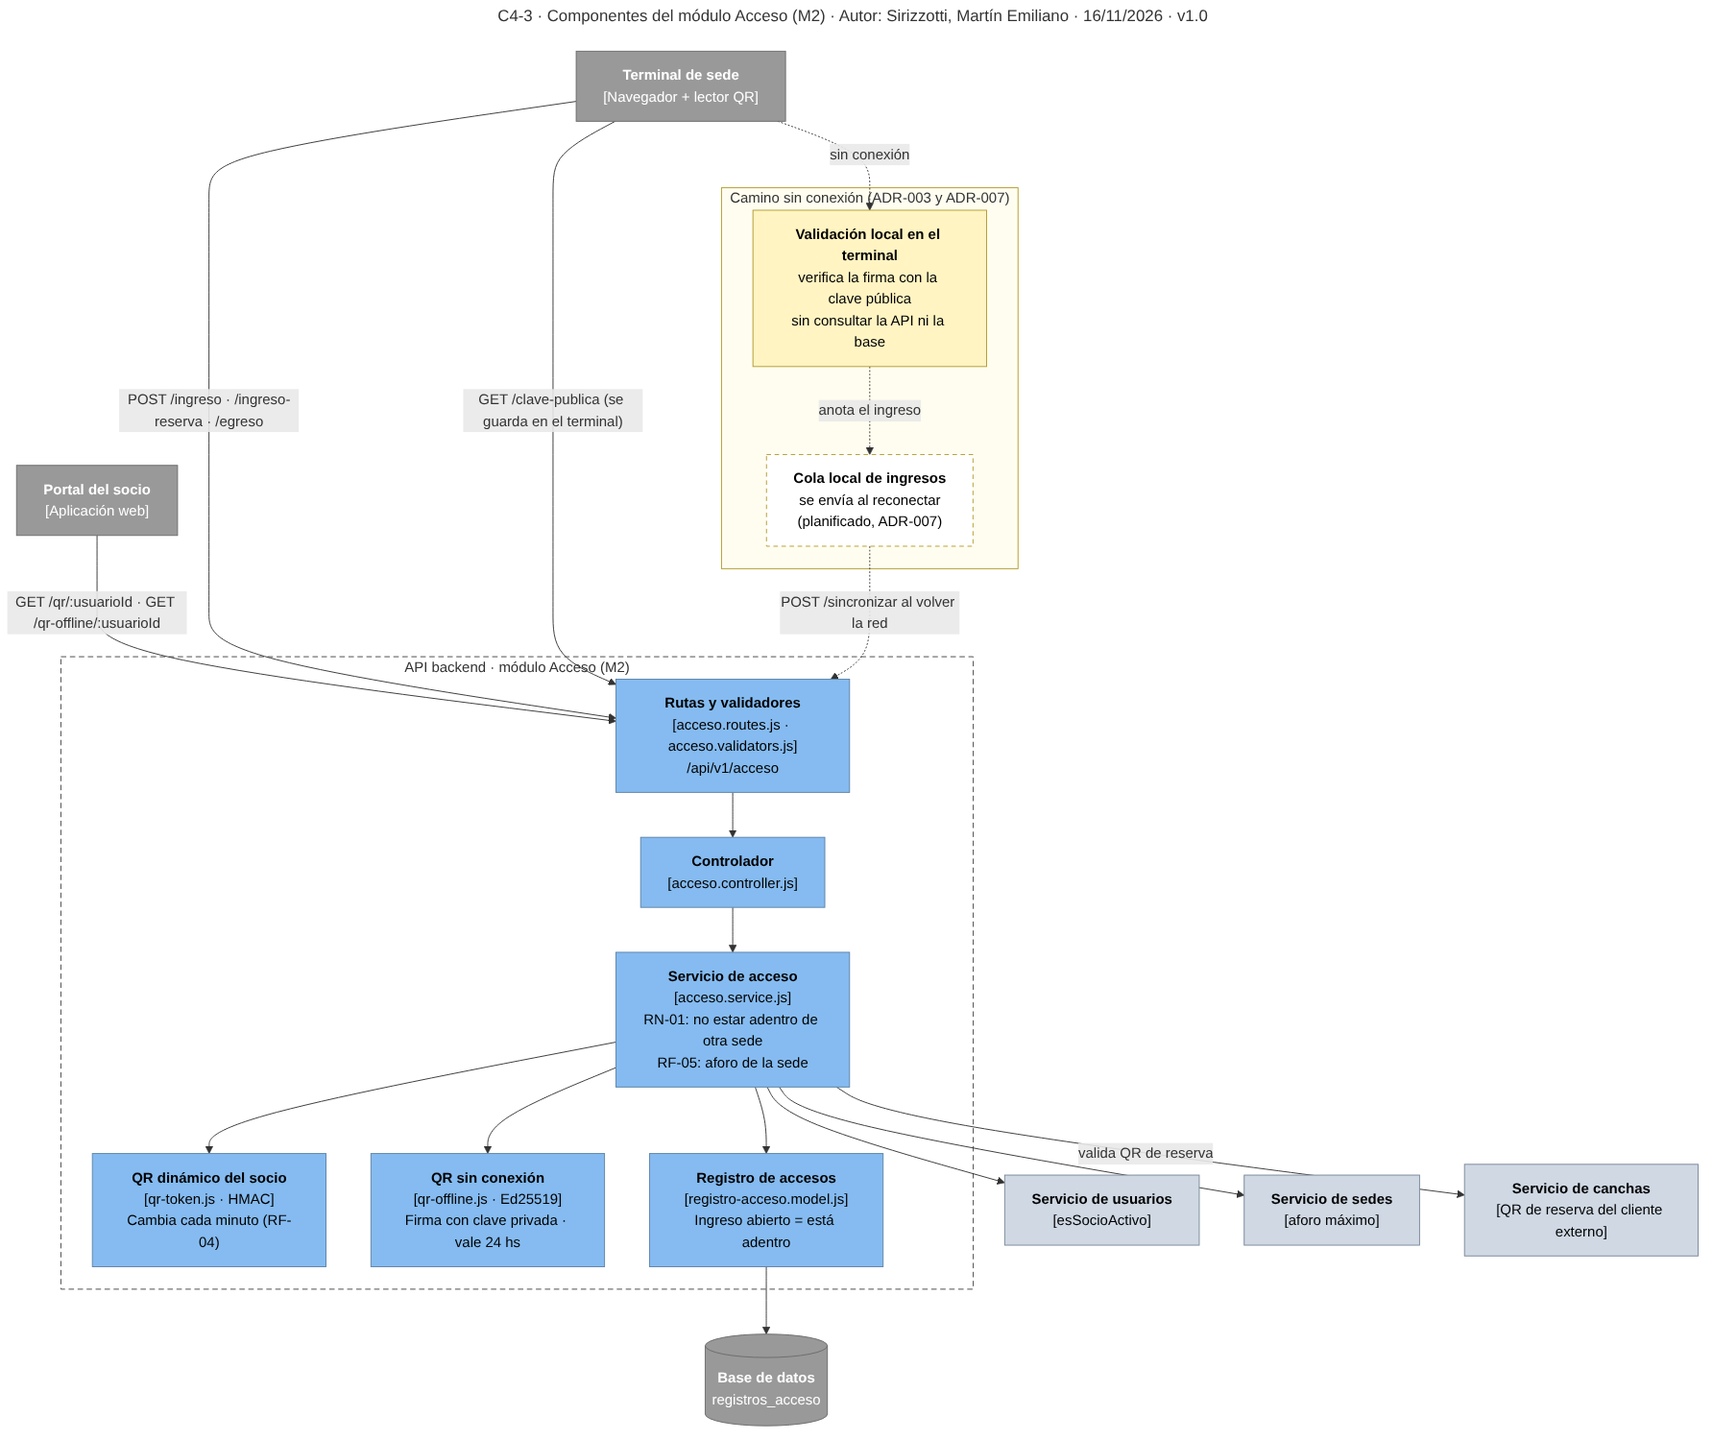
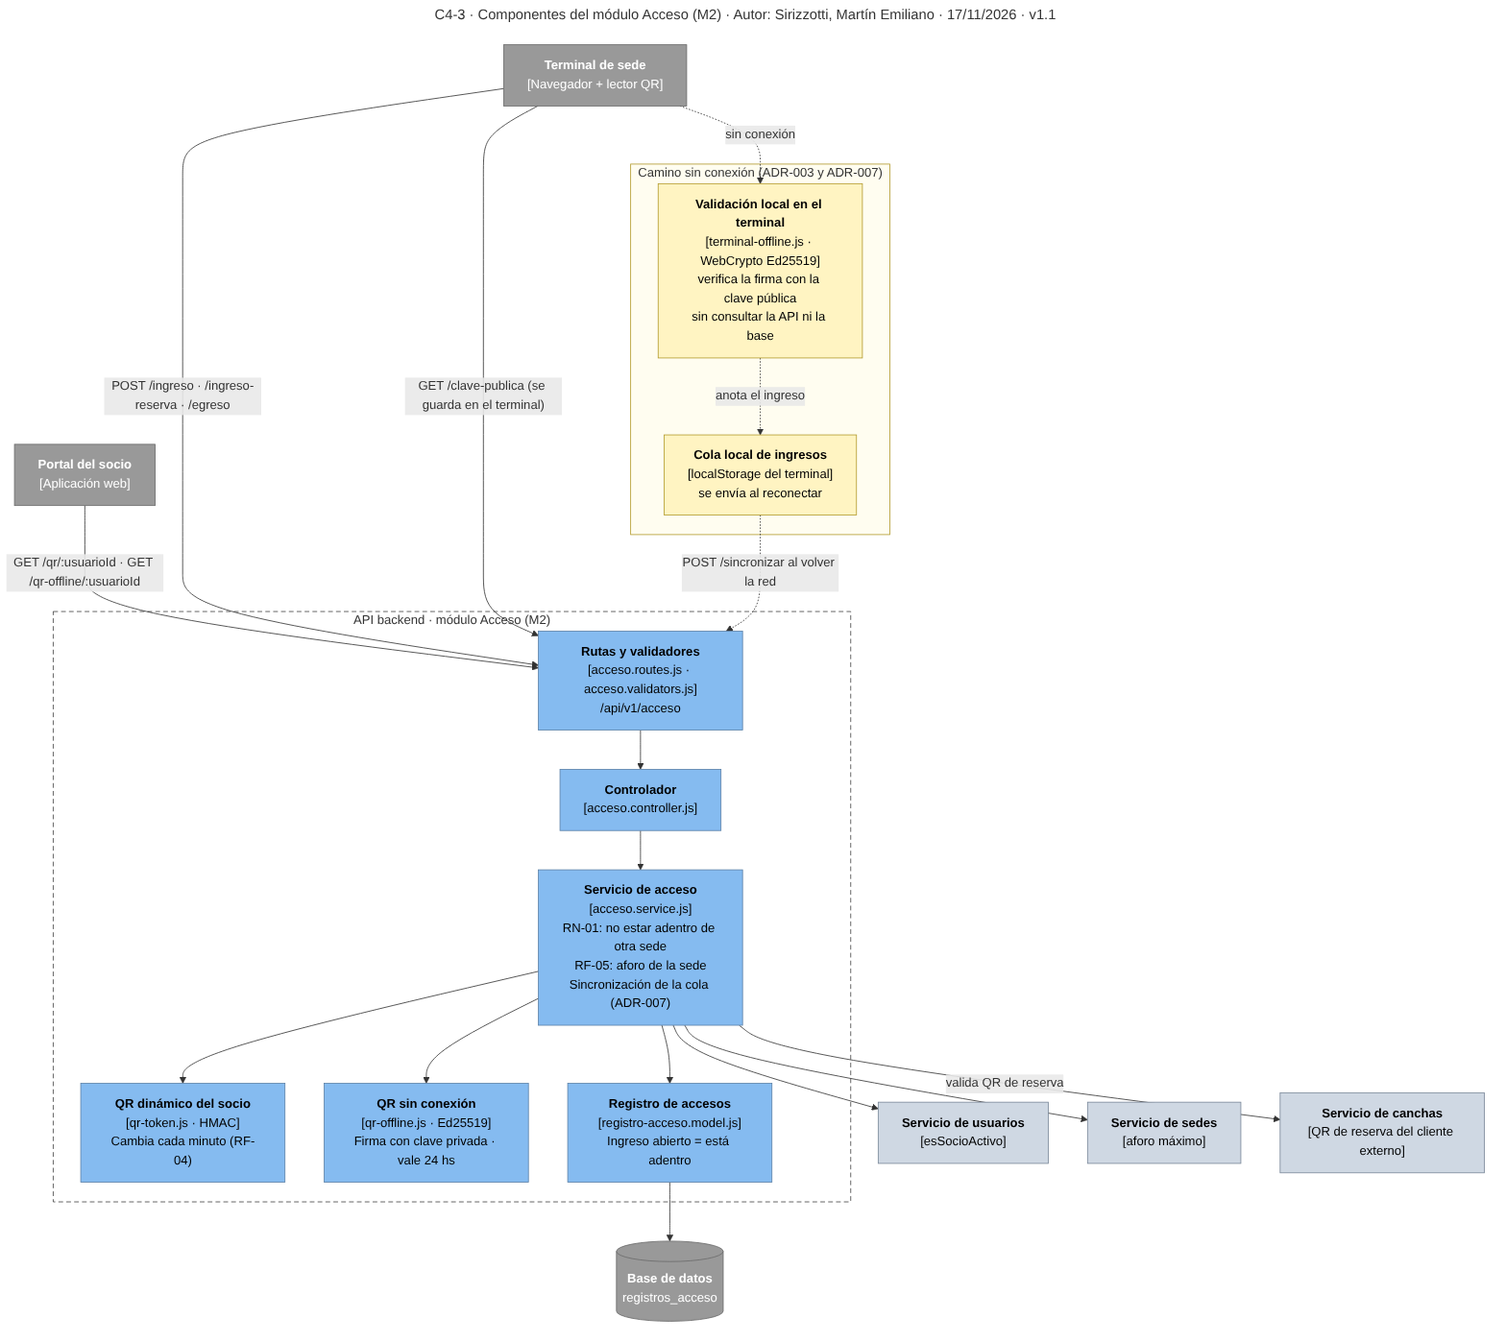
docs: ADR-007 implementado, diagramas de acceso v1.1 y manual de instalación
ADR-007 ajustado a lo implementado (deduplicación por persona + sede + hora,
sin egresos sin conexión). Secuencia de acceso offline y C4-3 de Acceso sin
las notas de pendiente. Manual de instalación: sección 8 y pasos de la demo.
README y bitácora con 113 pruebas y la cobertura nueva.

Claude-Session: https://claude.ai/code/session_01PRMnLmVZA6Z64uKRk9UVc8

diff --git a/Backend/docs/adr/ADR-007-sincronizacion-terminal-sede.md b/Backend/docs/adr/ADR-007-sincronizacion-terminal-sede.md
@@ -1,7 +1,7 @@
 # ADR-007 — Sincronización del terminal de sede: replicación local, frecuencia y resolución de conflictos
 
 - **Estado:** Aceptado
-- **Fecha:** 2026-10-28
+- **Fecha:** 2026-10-28 (implementado el 2026-11-17)
 - **Autor:** Villagra, Santiago Agustín; Ayala, Franco; Sirizzotti, Martín Emiliano
 - **Sprint:** 6
 
@@ -25,15 +25,17 @@ Se adoptó una arquitectura de **replicación mínima y cola local de eventos** 
 
 1. **Qué se replica localmente:**
    - **Clave pública Ed25519:** El terminal descarga y almacena en caché local únicamente la clave pública en formato PEM obtenida desde `GET /api/acceso/clave-publica`. No replica nóminas de socios ni credenciales.
-   - **Cola local de movimientos (*append-only*):** Mientras no hay conexión con la API, cada validación exitosa de `validarQrOffline` o lectura de egreso se persiste en una cola local del terminal con `{ eventoId, usuarioId, sedeId, tipoMovimiento, timestampLocal }`.
+   - **Cola local de ingresos (*append-only*):** Mientras no hay conexión con la API, cada QR sin conexión que el terminal valida con la clave pública se guarda en una cola local (`localStorage` del navegador de Recepción) con `{ id, token, sedeId, fechaIngreso }`. Se guarda el QR completo para que el servidor pueda volver a verificar la firma. También se guarda la lista de sedes, para poder usar la pantalla aunque se recargue sin conexión.
+   - **Egresos:** sin conexión no se registran salidas (el terminal no tiene la lista de presentes); se registran al volver, desde «Adentro ahora», y RN-01 se concilia al sincronizar (punto 3).
 
 2. **Frecuencia de sincronización:**
    - **Clave pública:** Se obtiene al iniciar el terminal y se refresca cada **24 horas** (en sintonía con `HORAS_DE_VALIDEZ = 24` configurado en `qr-offline.js`) o de inmediato si falla la verificación de firma por rotación de la semilla `QR_OFFLINE_SEMILLA`.
-   - **Cola de accesos pendientes:** Mientras hay conectividad, el terminal envía los registros en tiempo real (`POST /api/acceso/ingreso` y `POST /api/acceso/egreso`). Tras un corte, un proceso en segundo plano reintenta vaciar la cola en lotes cada **30 segundos** y dispara un envío inmediato al detectar el evento de reconexión de red (`online`).
+   - **Cola de ingresos pendientes:** Mientras hay conectividad, el ingreso con QR sin conexión se envía en el momento. Tras un corte, la pantalla reintenta vaciar la cola en lotes de hasta 200 ingresos cada **15 segundos** (el mismo ciclo que refresca el aforo), al detectar el evento `online` y con el botón «Sincronizar ahora». El servidor recibe la cola en `POST /api/v1/acceso/sincronizar`.
 
 3. **Resolución de conflictos al reconectar:**
-   - **Idempotencia ante reintentos de red:** El servidor central deduplica los eventos recibidos mediante su `eventoId` (o la terna `usuarioId`, `sedeId`, `timestampLocal`), evitando duplicar filas en `registros_acceso` si se corta la respuesta HTTP durante el envío.
-   - **Conflicto de sesión abierta (RN-01):** Si al sincronizar un ingreso *offline* el servidor detecta que el usuario aún tenía un registro abierto (`fechaEgreso: null`) en otra sede o en la misma (por un egreso no registrado antes del corte), prevalece la realidad física ya ocurrida: el servidor cierra automáticamente el registro anterior marcando una observación de auditoría e inserta el nuevo `RegistroAcceso` respetando el `timestampLocal` original.
+   - **El servidor no confía en el terminal:** vuelve a verificar la firma Ed25519 de cada QR con la hora del ingreso (no con la hora actual). Rechaza los QR alterados, los que ya estaban vencidos cuando la persona pasó, las fechas futuras o anteriores a la emisión del QR (con 5 minutos de tolerancia de reloj) y los usuarios inexistentes.
+   - **Idempotencia ante reintentos de red:** El servidor deduplica por la terna `usuarioId`, `sedeId`, `fechaIngreso`, así no duplica filas en `registros_acceso` si se corta la respuesta HTTP durante el envío. Se eligió la terna en lugar de una columna `evento_id` para no cambiar el esquema de la base a días de la entrega.
+   - **Conflicto de sesión abierta (RN-01):** Si al sincronizar un ingreso *offline* el servidor detecta que el usuario aún tenía un registro abierto (`fechaEgreso: null`) en otra sede o en la misma (por un egreso no registrado antes del corte), prevalece la realidad física ya ocurrida: el servidor cierra automáticamente el registro anterior a la hora del ingreso nuevo e inserta el nuevo `RegistroAcceso` con su `fechaIngreso` original. Si el registro abierto es *posterior* al ingreso sin conexión, este se guarda como histórico, cerrado a esa hora. En los dos casos la respuesta trae la observación y el servidor la deja en el log. Con conexión, la pantalla aplica RN-01 como con cualquier QR (no deja pasar a quien figura adentro de la sede).
    - **Superación de aforo máximo (RF-05):** Si los ingresos ocurridos sin conexión hacen que `actual > sede.aforoMaximo` al sincronizar, los registros históricos se aceptan igual para no perder trazabilidad; el servidor mantiene bloqueados nuevos ingresos *online* (HTTP 409) hasta que los egresos normalicen el cupo.
    - **Membresía suspendida durante el corte:** Si una membresía fue dada de baja en el servidor mientras el terminal estaba aislado pero el socio entró con un QR *offline* aún dentro de su ventana de 24 horas (`exp`), el ingreso queda registrado como histórico auditado y el servidor bloquea futuras renovaciones de QR (`403 Forbidden`).
 
@@ -43,7 +45,14 @@ El criterio determinante fue evitar la replicación pesada de tablas relacionale
 
 - **Positivas:** El terminal no almacena bases de datos de socios; los movimientos ocurridos sin conexión no se pierden ni se duplican; las reglas RN-01 y RF-05 se reconcilian automáticamente sin bloquear a posteriori un paso físico ya efectuado.
 - **Negativas:** Durante la caída de internet, el aforo consultado en `GET /api/acceso/aforo/:sedeId` refleja solo los registros previos al corte, pudiendo producirse un leve sobrepaso temporal de capacidad si la sede estaba al límite.
-- **Deuda asumida:** En el código actual (`acceso.routes.js` y `registro-acceso.model.js`) ya está implementada la emisión/validación Ed25519 sin base de datos (`qr-offline.js`), pero falta desarrollar: (1) el *worker* de cola persistente en el cliente del torno y (2) el *endpoint* `POST /api/acceso/sincronizar` con columnas de trazabilidad (`evento_id`, `origen: 'ONLINE' | 'OFFLINE'`) en `registros_acceso` para aceptar marcas de tiempo históricas en lugar de `DataTypes.NOW`.
+- **Deuda asumida:** (1) las observaciones de conflicto quedan en la respuesta y en el log, no en una columna de auditoría (`origen`, `observacion`) de `registros_acceso`; (2) sin conexión no se registran egresos; (3) la cola vive en el `localStorage` del navegador, que se pierde si alguien borra los datos del sitio; (4) la validación local necesita un navegador con Ed25519 en WebCrypto (Chrome/Edge 137, Firefox 129, Safari 17) y la página abierta desde `localhost` o `https`.
+
+## Implementación
+
+- Terminal: `Frontend/js/terminal-offline.js` (clave pública, validación local, cola, sincronización) y `Frontend/js/recepcion.js` (panel «Terminal»).
+- Servidor: `sincronizarIngresos()` en `Backend/src/modules/acceso/acceso.service.js` y la ruta `POST /api/v1/acceso/sincronizar`.
+- Pruebas: `Backend/test/unit/sincronizacion-terminal.test.js` (12 casos) y `Backend/test/integracion/qr.api.test.js`.
+- Diagramas: `secuencia-acceso-offline` y `c4-3-acceso` (v1.1).
 
 ## Requisitos relacionados
 

diff --git a/Backend/README.md b/Backend/README.md
@@ -83,7 +83,7 @@ docs/                       Bitácora, ADR y scripts SQL
 npm test
 ```
 
-Son 99 tests (72 unitarios y 27 de integración) que corren en un par de segundos y **no necesitan base de datos**: los servicios reales se prueban con repositorios en memoria. Para correr uno solo: `npm test -- precios`.
+Son 113 tests (83 unitarios y 30 de integración) que corren en un par de segundos y **no necesitan base de datos**: los servicios reales se prueban con repositorios en memoria. Para correr uno solo: `npm test -- precios`.
 
 | Archivo | Tipo | Qué prueba |
 |---|---|---|
@@ -96,9 +96,10 @@ Son 99 tests (72 unitarios y 27 de integración) que corren en un par de segundo
 | `test/unit/qr-offline.test.js` | Unitario | QR de acceso sin conexión: el torno valida con la clave pública, sin base |
 | `test/unit/qr-asistencia.test.js` | Unitario | QR de asistencia a clase: marca `ASISTIO` una sola vez |
 | `test/unit/qr-comprobante.test.js` | Unitario | QR de verificación del comprobante: detecta un monto cambiado |
+| `test/unit/sincronizacion-terminal.test.js` | Unitario | Sincronización del terminal (ADR-007): firma revisada con la hora del ingreso, reenvíos, RN-01 y aforo |
 | `test/integracion/canchas.api.test.js` | Integración | La API de canchas por HTTP: precio, reservas, 409 de RN-02, validaciones y 404 |
 | `test/integracion/membresias.api.test.js` | Integración | La API de membresías por HTTP: consulta, renovación y suspensión |
-| `test/integracion/qr.api.test.js` | Integración | Los cuatro QR por HTTP |
+| `test/integracion/qr.api.test.js` | Integración | Los cuatro QR por HTTP y `POST /acceso/sincronizar` |
 | `test/integracion/app.test.js` | Integración | La aplicación completa arma todos los módulos y responde (health, Swagger) |
 
 ## API
@@ -111,7 +112,7 @@ Todas las rutas empiezan con `/api`. El detalle de cada una (parámetros, cuerpo
 | Usuarios | `POST /usuarios` · `GET /usuarios` · `GET /usuarios/{id}` · `PUT /usuarios/{id}` |
 | Membresías | `GET /membresias/{id_usuario}` · `PUT /membresias/{id_usuario}/renovar` · `PATCH /membresias/{id_usuario}/suspender` |
 | Sedes | `POST /sedes` · `GET /sedes` · `GET /sedes/{id}` · `PATCH /sedes/{id}` |
-| Acceso | `GET /acceso/qr/{usuarioId}` · `POST /acceso/ingreso` · `POST /acceso/egreso` · `GET /acceso/aforo/{sedeId}` · `GET /acceso/presentes/{sedeId}` · `POST /acceso/ingreso-reserva` · `GET /acceso/qr-offline/{usuarioId}` · `POST /acceso/validar-offline` · `GET /acceso/clave-publica` |
+| Acceso | `GET /acceso/qr/{usuarioId}` · `POST /acceso/ingreso` · `POST /acceso/egreso` · `GET /acceso/aforo/{sedeId}` · `GET /acceso/presentes/{sedeId}` · `POST /acceso/ingreso-reserva` · `GET /acceso/qr-offline/{usuarioId}` · `POST /acceso/validar-offline` · `GET /acceso/clave-publica` · `POST /acceso/sincronizar` |
 | Canchas | `POST /canchas` · `GET /canchas/sede/{sedeId}` · `GET /canchas/{id}` · `GET /canchas/{id}/disponibilidad?fecha=` · `GET /canchas/{id}/precio?usuarioId=&inicio=` · `PATCH /canchas/{id}/estado` |
 | Reservas de cancha | `POST /canchas/reservas` · `GET /canchas/reservas/{id}` · `GET /canchas/reservas/usuario/{usuarioId}` · `PATCH /canchas/reservas/{id}/cancelar` · `GET /canchas/reservas/{id}/qr` |
 | Clases | `POST /clases` · `GET /clases` · `GET /clases/{id}` · `POST /clases/reservas` · `GET /clases/reservas/usuario/{usuarioId}` · `PATCH /clases/reservas/{id}/cancelar` · `GET /clases/reservas/{id}/qr` · `POST /clases/asistencia` · `POST /clases/lista-espera` · `GET /clases/{id}/lista-espera` |
@@ -132,7 +133,7 @@ Además del QR del socio hay cuatro, cada uno para una sola cosa ([ADR-016](docs
 | QR | Para qué | Cómo se obtiene → dónde se usa | Vigencia |
 |---|---|---|---|
 | Reserva de cancha | Que quien alquiló una cancha (sobre todo el cliente externo) entre a la sede | `GET /canchas/reservas/{id}/qr` o el comprobante PDF → `POST /acceso/ingreso-reserva` | De 30 min antes del turno hasta que termina, solo en esa sede y solo si está paga |
-| Acceso sin conexión | Que el torno valide al socio sin internet (firma Ed25519) | `GET /acceso/qr-offline/{usuarioId}` → el torno, con `GET /acceso/clave-publica` (se simula con `POST /acceso/validar-offline`) | 24 h, o hasta que vence la membresía |
+| Acceso sin conexión | Que el torno valide al socio sin internet (firma Ed25519) | `GET /acceso/qr-offline/{usuarioId}` → Recepción lo valida en el navegador con `GET /acceso/clave-publica` guardada y, al volver la red, manda los ingresos a `POST /acceso/sincronizar` (ADR-007) | 24 h, o hasta que vence la membresía |
 | Asistencia a clase | Registrar que el socio vino (`ASISTIO`) | `GET /clases/reservas/{id}/qr` → `POST /clases/asistencia` | De 30 min antes a 60 min después del inicio, una sola vez |
 | Verificación del comprobante | Comprobar que un ticket es auténtico y que no le cambiaron el monto | Impreso en el comprobante PDF → `GET /pagos/verificar/{token}` | Sin vencimiento |
 

diff --git a/Backend/docs/manuales/manual-instalacion-operacion.md b/Backend/docs/manuales/manual-instalacion-operacion.md
@@ -112,7 +112,7 @@ docker compose down -v           # bajar todo y BORRAR la base (se recarga el se
 
 ```bash
 cd Backend
-npm test            # 100 pruebas (unitarias e integración), no necesitan base de datos
+npm test            # 113 pruebas (unitarias e integración), no necesitan base de datos
 npm run test:cov    # además, reporte de cobertura en Backend/coverage/ (umbral: 70 % de líneas, 50 % de ramas)
 ```
 
@@ -282,12 +282,19 @@ Supabase hace copias diarias en su panel (**Database → Backups**; la cantidad 
 | Situación | Qué pasa | Estado |
 |---|---|---|
 | Cae la conexión entre una sede y el servidor central | El socio activo tiene en «Mi acceso → Sin conexión» un QR firmado con Ed25519 que vale 24 horas (o hasta que vence su membresía). Ese QR se valida con la clave pública, sin consultar la base (ADR-003). | Firma y validación implementadas en el backend (`qr-offline.js`, `GET /api/v1/acceso/clave-publica`, `POST /api/v1/acceso/validar-offline`) |
-| Validación en el terminal sin red | El terminal de recepción tiene que verificar la firma localmente con la clave pública guardada. | **Pendiente:** hoy la pantalla de Recepción valida el QR sin conexión llamando a `POST /acceso/validar-offline`, o sea, necesita llegar a la API |
-| Vuelve la conexión | El terminal envía los ingresos anotados durante el corte a `POST /api/v1/acceso/sincronizar`; los conflictos con RN-01 se registran igual y se marcan para revisión (ADR-007). | **Pendiente de implementar** (ADR-007) |
+| Validación en el terminal sin red | La pantalla de Recepción guarda en el navegador la clave pública (se renueva cada 24 horas), la lista de sedes y una cola de ingresos. Sin servidor, verifica la firma Ed25519 del QR sin conexión ahí mismo (WebCrypto), lo deja pasar y anota el ingreso con su hora. El panel **Terminal** muestra «Sin conexión» y cuántos ingresos faltan sincronizar. | Implementado (`Frontend/js/terminal-offline.js`, ADR-007) |
+| Vuelve la conexión | Al volver la red (y cada 15 segundos), el terminal envía la cola a `POST /api/v1/acceso/sincronizar`. El servidor vuelve a verificar cada firma con la hora del ingreso, descarta los reenvíos (misma persona, sede y hora) y resuelve RN-01 a favor de lo que pasó: si la persona figuraba adentro sin egreso, ese registro se cierra a la hora del ingreso nuevo. El aforo no frena la sincronización. Las observaciones quedan en el log de la API y en el panel Terminal. | Implementado (ADR-007) |
 | Se cae la API o la base | La aplicación web muestra el error de conexión. Con Docker, el contenedor `api` se reinicia solo (`restart: on-failure`); el contenedor `db` tiene control de estado (`pg_isready`). | Implementado |
 | Supabase pausa el proyecto (plan gratuito, una semana sin uso) | La API no arranca: «tenant/user not found». | Se reactiva el proyecto desde el panel de Supabase, o se usa la base del compose |
 
-Para verificar que un QR sin conexión es válido mientras la API responde: en Recepción, pegar o escanear el código; la pantalla indica «Válido sin conexión» y hasta cuándo vale.
+**Cómo probarlo (demo obligatoria):**
+
+1. Con todo andando, entrar como Lucía (DNI 30111222) → **Mi acceso → Sin conexión** y copiar el código del QR. En otra pestaña, entrar como Carla (DNI 28555666) → **Recepción**: el panel Terminal dice «En línea» y que tiene la clave pública guardada.
+2. Bajar la API: `docker compose stop api` (o cortar `npm start` con Ctrl+C). La aplicación web sigue servida por `web`.
+3. Pegar el código en Recepción: «Puede pasar», validado en el terminal sin consultar el servidor; el panel Terminal pasa a «Sin conexión · 1 ingreso sin sincronizar». Un código alterado da «La firma no es válida». Recargar la página no pierde la cola.
+4. Levantar la API: `docker compose start api`. En menos de 15 segundos el terminal sincroniza solo (o con «Sincronizar ahora»): Lucía aparece en «Adentro ahora» con la hora en que pasó.
+
+Requisitos del terminal: navegador actualizado (Chrome 137, Edge 137, Firefox 129 o Safari 17 en adelante, por Ed25519 en WebCrypto) y la página abierta desde `localhost` o `https` (WebCrypto no anda en `http` con otra dirección). Sin conexión no se pueden registrar salidas: se registran al volver, desde «Adentro ahora».
 
 Si se cambia `QR_SECRET` o `QR_OFFLINE_SEMILLA`, cambia la clave pública: los QR sin conexión emitidos antes dejan de valer y hay que volver a descargar la clave en los terminales.
 

diff --git a/Backend/docs/bitacoras/LOG-sirizzotti.md b/Backend/docs/bitacoras/LOG-sirizzotti.md
@@ -73,5 +73,8 @@ Formato: `[fecha] (commit) Qué hice · Decisión · Complejidad y cómo la reso
 ### Repositorio
 - **[05/11]** Ordené el repositorio de GitHub: agregué `.gitignore` (para que nunca se suba el `.env` con la contraseña de la base), borré archivos que sobraban (olores O-4 y O-13) y subí el trabajo de octubre en commits separados por tema. · **Complejidad:** el código se había subido de una sola vez desde la web de GitHub, sin historial → aprendí a usar GitHub Desktop y a separar los cambios en commits.
 
+### Sincronización del terminal de sede → ADR-007
+- **[17/11]** Recepción valida el QR sin conexión en el navegador (WebCrypto Ed25519 con la clave pública guardada) y anota los ingresos en una cola local; al volver la conexión los manda a `POST /api/v1/acceso/sincronizar`. El servidor vuelve a verificar cada firma con la hora del ingreso, descarta los reenvíos y resuelve RN-01 cerrando el registro que quedó abierto. 14 tests nuevos → **113 tests** (83 unitarios y 30 de integración). · **Decisión:** deduplicar por persona + sede + hora en lugar de agregar una columna `evento_id`, para no cambiar el esquema de Supabase a días de la entrega. · **Complejidad:** que la pantalla siga andando si se recarga sin servidor (también hubo que guardar las sedes) y que el ingreso quede con la hora en que la persona pasó, no con la hora en que se sincroniza.
+
 ### Cierre
 - [ ] Pendiente (semanas 12 y 13).

diff --git a/README.md b/README.md
@@ -80,11 +80,11 @@ Además hay 25 sedes, canchas de pádel y fútbol en cada una (una en mantenimie
 
 ```bash
 cd Backend
-npm test            # 100 pruebas: unitarias e integración, sin base de datos
+npm test            # 113 pruebas: unitarias e integración, sin base de datos
 npm run test:cov    # además genera el reporte de cobertura en Backend/coverage/
 ```
 
-Cobertura al 08/11/2026: **80,8 % de líneas y 58,1 % de ramas**. El umbral mínimo (ADR-008) es 70 % de líneas y 50 % de ramas: si un cambio lo baja, las pruebas fallan. El pipeline de GitHub Actions las corre en cada Pull Request.
+Cobertura al 17/11/2026: **82,3 % de líneas y 61,5 % de ramas**. El umbral mínimo (ADR-008) es 70 % de líneas y 50 % de ramas: si un cambio lo baja, las pruebas fallan. El pipeline de GitHub Actions las corre en cada Pull Request.
 
 ## Documentación
 
